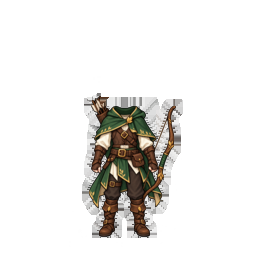
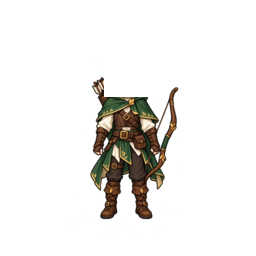
Replace ghosted outfit layers with fixed previews

Changed region(s): [[0.3125, 0.2812, 0.7188, 0.9375]]

diff --git a/student-shop.js b/student-shop.js
@@ -15,7 +15,7 @@
   let busy=false,loadPromise=null,activeSlot='all',lastData=null,transitionTimer=null;
   async function timedFetch(url,options={}){const controller=new AbortController(),timer=setTimeout(()=>controller.abort(),REQUEST_TIMEOUT_MS);try{return await fetch(url,{...options,signal:controller.signal})}finally{clearTimeout(timer)}}
   function scheduleTransition(data){if(transitionTimer){clearTimeout(transitionTimer);transitionTimer=null}if(!data?.enabled)return;const serverNow=Date.parse(data.serverNow);if(!Number.isFinite(serverNow))return;const future=[];for(const item of data.items||[]){if(!item.limited)continue;for(const value of [item.saleStartsAt,item.saleEndsAt]){const time=Date.parse(value);if(Number.isFinite(time)&&time>serverNow)future.push(time)}}if(!future.length)return;const delay=Math.min(2147483000,Math.max(250,Math.min(...future)-serverNow+250));transitionTimer=setTimeout(()=>{transitionTimer=null;load()},delay)}
-  function paintProductPreview(button,item){const renderer=window.StudyVillageAvatar;if(['physical','effect'].includes(item.slot)||!renderer)return;const host=button.querySelector('span');if(!host)return;host.className='shop-wearable-preview';host.replaceChildren();if(item.slot==='character'){const base=document.createElement('i');base.className='shop-preview-base';host.append(base);renderer.paintBase(base,item.id);return}if(!renderer.ASSETS?.[item.id])return;const base=document.createElement('i'),part=document.createElement('i');base.className=item.slot==='outfit'?'shop-preview-base shop-preview-head-only':'shop-preview-base';part.className=`shop-preview-part shop-preview-${item.slot}`;host.append(base);renderer.paintBase(base,'student-boy');host.append(part);renderer.paintItem(part,item.id)}
+  function paintProductPreview(button,item){const renderer=window.StudyVillageAvatar;if(['physical','effect'].includes(item.slot)||!renderer)return;const host=button.querySelector('span');if(!host)return;host.className='shop-wearable-preview';host.replaceChildren();if(item.slot==='character'){const base=document.createElement('i');base.className='shop-preview-base';host.append(base);renderer.paintBase(base,item.id);return}const asset=renderer.ASSETS?.[item.id];if(!asset)return;if(item.slot==='outfit'&&asset.previewSrc){const preview=document.createElement('img');preview.className='shop-preview-composite';preview.src=asset.previewSrc;preview.alt=asset.alt||'';preview.draggable=false;host.append(preview);return}const base=document.createElement('i'),part=document.createElement('i');base.className='shop-preview-base';part.className=`shop-preview-part shop-preview-${item.slot}`;host.append(base);renderer.paintBase(base,'student-boy');host.append(part);renderer.paintItem(part,item.id)}
   function render(data={}){const fresh=data!==lastData;lastData=data;if(fresh)scheduleTransition(data);const owned=new Set(Array.isArray(data.ownedItems)?data.ownedItems:[]);balance.textContent=`${Math.max(0,Number(data.balance)||0)}별`;list.innerHTML='';if(!data.enabled){status.textContent='지금은 선생님이 상점을 닫아 두었어요.';filters.hidden=true;list.hidden=true;return}filters.hidden=false;list.hidden=false;const pending=(data.deliveryRequests||[]).filter(row=>row.status==='pending').length;status.textContent=pending?`별로 원하는 아이템을 살 수 있어요. 선생님 전달을 기다리는 실물 요청이 ${pending}개 있어요.`:'별로 원하는 아이템을 살 수 있어요. 구매 기록은 내 별 장부에 남아요.';const currentBalance=Math.max(0,Number(data.balance)||0),items=(data.items||[]).filter(item=>activeSlot==='all'||item.slot===activeSlot);for(const item of items){const physical=item.fulfillment==='teacher-delivery',bought=!physical&&owned.has(item.id),available=item.available!==false,salePending=item.salePending===true,saleEnded=item.saleEnded===true,price=Math.max(0,Number(item.price)||0),affordable=currentBalance>=price,missingStars=Math.max(0,price-currentBalance),requiredLevel=Math.max(1,Number(item.requiredLevel)||1),levelOk=(Number(data.currentLevel)||1)>=requiredLevel,startLabel=item.saleStartsAt?new Date(item.saleStartsAt).toLocaleString('ko-KR',{month:'numeric',day:'numeric',hour:'2-digit',minute:'2-digit'}):'',endLabel=item.saleEndsAt?new Date(item.saleEndsAt).toLocaleString('ko-KR',{month:'numeric',day:'numeric',hour:'2-digit',minute:'2-digit'}):'',b=document.createElement('button');b.type='button';b.className=`inventory-item ${bought?'selected':''}`;b.disabled=bought||!available||salePending||saleEnded||!levelOk||!affordable||busy;b.innerHTML=`<span>${icons[item.id]||'🎁'}</span><strong>${esc(item.name)}${item.limited?`<em title="${esc(endLabel?`${endLabel} 종료`:'한정 판매')}">한정</em>`:''}</strong><small>${bought?'구매 완료':!available?'판매 중지':salePending?`판매 예정 · ${esc(startLabel)}`:saleEnded?'판매 종료':!levelOk?`Lv.${requiredLevel}부터 구매`:!affordable?`${price}별 · ${missingStars}별 더 필요`:physical?`${price}별 · 선생님께 전달 요청`:`${price}별 · 구매${item.limited&&endLabel?` · ${esc(endLabel)}까지`:''}`}</small>`;if(!bought&&available&&!salePending&&!saleEnded&&levelOk&&affordable)b.onclick=()=>purchase(item);paintProductPreview(b,item);list.appendChild(b)}if(!items.length)list.innerHTML='<p class="student-shop-empty">이 종류의 아이템은 아직 없어요.</p>'}
   async function load(){if(loadPromise)return loadPromise;loadPromise=(async()=>{try{const r=await timedFetch('/api/shop',{headers:headers(),cache:'no-store'}),d=await r.json();if(!r.ok||!d.ok)throw new Error();render(d);return d}catch(err){status.textContent=err?.name==='AbortError'?'상점 정보를 불러오는 시간이 초과됐어요.':'상점 정보를 불러오지 못했어요.';return null}})();try{return await loadPromise}finally{loadPromise=null}}
   async function purchase(item){if(busy)return;const physical=item.fulfillment==='teacher-delivery',question=physical?`${item.name}을(를) ${item.price}별에 신청할까요?\n별은 지금 바로 차감되고 선생님께 전달 요청이 남습니다.`:`${item.name}을(를) ${item.price}별에 살까요?\n구매한 별 사용 기록은 내 별 장부에 남습니다.`;if(!confirm(question))return;busy=true;status.textContent=physical?'전달 요청 중…':'구매 중…';let refreshed=false;try{const r=await timedFetch('/api/shop/purchase',{method:'POST',headers:{'Content-Type':'application/json',...headers()},body:JSON.stringify({itemId:item.id})}),d=await r.json();if(!r.ok||!d.ok){if(d.code==='insufficient-stars')status.textContent=`별이 부족해요. 현재 ${d.balance||0}별이 있어요.`;else if(d.code==='shop-disabled')status.textContent='상점이 방금 닫혔어요.';else if(d.code==='item-unavailable')status.textContent='이 아이템은 방금 판매가 중지됐어요.';else if(d.code==='sale-pending')status.textContent='아직 판매 시작 전인 한정 아이템이에요.';else if(d.code==='sale-ended')status.textContent='이 한정 아이템의 판매 시간이 끝났어요.';else if(d.code==='level-required')status.textContent='이 아이템은 Lv.'+d.requiredLevel+'부터 살 수 있어요. 현재 Lv.'+d.currentLevel+'이에요.';else if(d.code==='already-owned')status.textContent='이미 가지고 있는 아이템이에요.';else status.textContent='구매하지 못했어요.';return}status.textContent=d.fulfillment==='teacher-delivery'?`📦 ${d.itemName} 전달 요청 완료! ${d.balance}별이 남았어요. 선생님이 물건을 전달하면 완료 처리합니다.`:`🎁 ${d.itemName} 구매 완료! ${d.balance}별이 남았어요.`;window.dispatchEvent(new CustomEvent('studyvillage:shop-purchase',{detail:d}));window.dispatchEvent(new Event('studyvillage:activity-record-refresh'));busy=false;const state=await load();refreshed=!!state;if(d.fulfillment==='teacher-delivery')return;const found=(state?.items||[]).find(x=>x.id===d.itemId);if(found?.slot==='effect'){status.textContent='🌈 '+d.itemName+' 구매 완료! 성장 효과가 자동으로 켜졌어요.';window.dispatchEvent(new Event('studyvillage:shop-refresh'))}else if(confirm(`${d.itemName} 구매 완료! 🎁\n지금 바로 장착할까요?`)){if(found)window.dispatchEvent(new CustomEvent('studyvillage:equip-purchased-item',{detail:{itemId:d.itemId,itemName:found.name}}))}}catch(err){status.textContent=err?.name==='AbortError'?'구매 요청 시간이 초과됐어요. 잠시 후 별 장부를 확인해 주세요.':'구매 중 연결 문제가 생겼어요.'}finally{busy=false;if(!refreshed)await load()}}

diff --git a/index.html b/index.html
@@ -5,7 +5,7 @@
     <meta name="viewport" content="width=device-width,initial-scale=1" />
     <title>우리 학습마을</title>
     <link rel="stylesheet" href="style.css?v=20260827r11" />
-    <link rel="stylesheet" href="avatar-assets.css?v=20260831r4" />
+    <link rel="stylesheet" href="avatar-assets.css?v=20260831r5" />
     <link rel="stylesheet" href="building-interiors.css?v=20260823a" />
     <link rel="stylesheet" href="library-game.css?v=20260828v4" />
     <link rel="stylesheet" href="activity-records.css" />
@@ -28,6 +28,6 @@
         <footer class="mobile-controls"><button id="talk-button" class="talk-button">✨ 상호작용</button></footer>
       </section>
     </main>
-    <script src="auth.js?v=20260831r1"></script><script src="error-reporter.js"></script><script src="student-single-session.js"></script><script src="presence.js"></script><script src="live-events.js"></script><script src="data-service.js?v=20260823a"></script><script src="activity-checkpoint.js"></script><script src="activity-gate.js?v=20260828b"></script><script src="sound-effects.js?v=20260827v2"></script><script src="game.js?v=20260828v3"></script><script src="student-session.js?v=20260830r2"></script><script src="avatar-renderer.js?v=20260830rpg12"></script><script src="assets/avatar-base-variants-v1.js?v=20260830b"></script><script src="assets/avatar-special-outfit-overhaul-v2.js?v=20260830a"></script><script src="assets/avatar-visual-overhaul-v1.js?v=20260830a"></script><script src="assets/avatar-simple-sets-v1.js?v=20260830a"></script><script src="avatar-motion.js"></script><script src="avatar-growth-effects.js?v=20260822c"></script><script src="world-camera.js"></script><script src="village-layout.js?v=20260823a"></script><script src="random-npcs.js"></script><script src="random-exploration-events.js"></script><script src="building-interiors.js?v=20260830a"></script><script src="math-practice.js?v=20260830r4"></script><script src="question-data.js?v=20260825r9"></script><script src="curriculum-question-bank.js?v=20260827v1"></script><script src="assets/curriculum-content-expansion.js?v=20260828v1"></script><script src="question-response.js"></script><script src="assets/student-question-overrides.js?v=20260827v2"></script><script src="library-game.js?v=20260830save1"></script><script src="activity-taxonomy.js"></script><script src="daily-missions.js"></script><script src="exploration-collection.js"></script><script src="activity-records.js"></script><script src="student-result-profile-sync.js"></script><script src="customize.js?v=20260830r4"></script><script src="assets/avatar-fullbody-fix.js?v=20260826rpg3"></script><script src="assets/avatar-basic-pack-v3.js?v=20260826v3"></script><script src="assets/avatar-secondary-sync-v2.js?v=20260827v4"></script><script src="assets/student-shop-ownership-compat.js?v=20260823a"></script><script src="student-shop.js?v=20260830r4"></script><script src="onboarding.js?v=20260820c"></script><script src="connection-status.js"></script><script src="session-restore.js"></script><script src="assets/expedition-entry-guard.js?v=20260823a"></script><script src="assets/student-exploration-subject-pools.js?v=20260829v7"></script><script src="assets/student-exploration-v2.js?v=20260830r4"></script><script src="assets/student-overlay-manager.js?v=20260828c"></script><script src="assets/student-stability-fixes.js?v=20260830r5"></script><script src="assets/ui-feedback-polish.js?v=20260829c"></script>
+    <script src="auth.js?v=20260831r1"></script><script src="error-reporter.js"></script><script src="student-single-session.js"></script><script src="presence.js"></script><script src="live-events.js"></script><script src="data-service.js?v=20260823a"></script><script src="activity-checkpoint.js"></script><script src="activity-gate.js?v=20260828b"></script><script src="sound-effects.js?v=20260827v2"></script><script src="game.js?v=20260828v3"></script><script src="student-session.js?v=20260830r2"></script><script src="avatar-renderer.js?v=20260831rpg13"></script><script src="assets/avatar-base-variants-v1.js?v=20260830b"></script><script src="assets/avatar-special-outfit-overhaul-v2.js?v=20260830a"></script><script src="assets/avatar-visual-overhaul-v1.js?v=20260830a"></script><script src="assets/avatar-simple-sets-v1.js?v=20260830a"></script><script src="avatar-motion.js"></script><script src="avatar-growth-effects.js?v=20260822c"></script><script src="world-camera.js"></script><script src="village-layout.js?v=20260823a"></script><script src="random-npcs.js"></script><script src="random-exploration-events.js"></script><script src="building-interiors.js?v=20260830a"></script><script src="math-practice.js?v=20260830r4"></script><script src="question-data.js?v=20260825r9"></script><script src="curriculum-question-bank.js?v=20260827v1"></script><script src="assets/curriculum-content-expansion.js?v=20260828v1"></script><script src="question-response.js"></script><script src="assets/student-question-overrides.js?v=20260827v2"></script><script src="library-game.js?v=20260830save1"></script><script src="activity-taxonomy.js"></script><script src="daily-missions.js"></script><script src="exploration-collection.js"></script><script src="activity-records.js"></script><script src="student-result-profile-sync.js"></script><script src="customize.js?v=20260830r4"></script><script src="assets/avatar-fullbody-fix.js?v=20260826rpg3"></script><script src="assets/avatar-basic-pack-v3.js?v=20260826v3"></script><script src="assets/avatar-secondary-sync-v2.js?v=20260827v4"></script><script src="assets/student-shop-ownership-compat.js?v=20260823a"></script><script src="student-shop.js?v=20260831r5"></script><script src="onboarding.js?v=20260820c"></script><script src="connection-status.js"></script><script src="session-restore.js"></script><script src="assets/expedition-entry-guard.js?v=20260823a"></script><script src="assets/student-exploration-subject-pools.js?v=20260829v7"></script><script src="assets/student-exploration-v2.js?v=20260830r4"></script><script src="assets/student-overlay-manager.js?v=20260828c"></script><script src="assets/student-stability-fixes.js?v=20260830r5"></script><script src="assets/ui-feedback-polish.js?v=20260829c"></script>
   </body>
 </html>

diff --git a/avatar-renderer.js b/avatar-renderer.js
@@ -53,7 +53,7 @@ window.StudyVillageAvatar=(()=>{
     'backpack':{svg:bag('backpack','#875432')},'field-satchel':{svg:bag('satchel','#745033')},'book-pack':{svg:bag('books','#315f91')},'bag-art':{svg:bag('art','#c9604d')},'bag-rocket':{src:`${RPG}bag-star-rocket-rpg-v7.png`,alt:'별 탐험가 로켓 가방'},
     'hand-sword':{src:`${RPG}hand-star-sword-rpg-v7.png`,alt:'별보석 모험가 검'},'hand-wand':{src:`${RPG}hand-starlight-wand-rpg-v8.png`,alt:'별빛 수정 지팡이'},'hand-book':{svg:hand('book','#315f91')},'hand-magnifier':{svg:hand('magnifier','#294f79')},
     'pet-chick':{svg:pet('chick','#f4d544')},'pet-cat':{svg:pet('cat','#e59a43')},'pet-owl':{svg:pet('owl','#9a6d45')},'pet-fox':{svg:pet('fox','#e47739')},'pet-dog':{svg:pet('dog','#b87946')},'pet-rabbit':{svg:pet('rabbit','#eee5df')},'pet-dragon':{src:`${RPG}pet-star-dragon-rpg-v8.png`,alt:'별무늬 꼬마 용 친구'},'pet-slime':{svg:pet('slime','#63c67a')},
-    'outfit-silver-knight':{src:`${RPG}production/outfits/silver-knight.png`,alt:'은빛 수호 기사 한벌 의상'},'outfit-star-mage-production':{src:`${RPG}production/outfits/star-mage.png`,alt:'별자리 마법사 한벌 의상'},'outfit-school-scientist':{src:`${RPG}production/outfits/school-scientist.png`,alt:'푸른빛 과학자 한벌 의상'},'outfit-forest-archer-production':{src:`${RPG}production/outfits/forest-archer.png`,alt:'초록 숲 궁수 한벌 의상'},'outfit-pirate-captain-production':{src:`${RPG}production/outfits/pirate-captain.png`,alt:'붉은 해적 선장 한벌 의상'},'outfit-moon-priest-production':{src:`${RPG}production/outfits/moon-priest.png`,alt:'달빛 사제 한벌 의상'},
+    'outfit-silver-knight':{src:`${RPG}production/outfits/silver-knight.png`,previewSrc:`${RPG}production/shop-previews/silver-knight.png`,alt:'은빛 수호 기사 한벌 의상'},'outfit-star-mage-production':{src:`${RPG}production/outfits/star-mage.png`,previewSrc:`${RPG}production/shop-previews/star-mage.png`,alt:'별자리 마법사 한벌 의상'},'outfit-school-scientist':{src:`${RPG}production/outfits/school-scientist.png`,previewSrc:`${RPG}production/shop-previews/school-scientist.png`,alt:'푸른빛 과학자 한벌 의상'},'outfit-forest-archer-production':{src:`${RPG}production/outfits/forest-archer.png`,previewSrc:`${RPG}production/shop-previews/forest-archer.png`,alt:'초록 숲 궁수 한벌 의상'},'outfit-pirate-captain-production':{src:`${RPG}production/outfits/pirate-captain.png`,previewSrc:`${RPG}production/shop-previews/pirate-captain.png`,alt:'붉은 해적 선장 한벌 의상'},'outfit-moon-priest-production':{src:`${RPG}production/outfits/moon-priest.png`,previewSrc:`${RPG}production/shop-previews/moon-priest.png`,alt:'달빛 사제 한벌 의상'},
     'pet-maltese-production':{src:`${RPG}production/pets/maltese.png`,alt:'하얀 말티즈'},'pet-toy-poodle-production':{src:`${RPG}production/pets/toy-poodle.png`,alt:'살구 토이푸들'},'pet-corgi-production':{src:`${RPG}production/pets/corgi.png`,alt:'통통 웰시코기'},'pet-cheese-cat-production':{src:`${RPG}production/pets/cheese-cat.png`,alt:'치즈 줄무늬 고양이'},'pet-lop-rabbit-production':{src:`${RPG}production/pets/lop-rabbit.png`,alt:'크림 롭이어 토끼'},'pet-baby-dragon-production':{src:`${RPG}production/pets/baby-dragon.png`,alt:'사파이어 꼬마 용'}
   };
   function paint(element,spec){if(!element)return;element.replaceChildren();element.classList.toggle('image-asset',!!spec?.src);element.classList.toggle('svg-asset',!!spec?.svg);if(spec?.svg)element.innerHTML=spec.svg;else if(spec?.src){const img=document.createElement('img');img.src=spec.src;img.alt=spec.alt||'';img.draggable=false;element.appendChild(img)}else element.textContent=spec?.emoji||''}

diff --git a/avatar-basic-pack-contract-selftest.js b/avatar-basic-pack-contract-selftest.js
@@ -25,7 +25,7 @@ for(const id of ['character-boy-02','character-boy-03','character-boy-04','chara
 }
 for(const retiredHair of ['hair-short','hair-bob','hair-ponytail','hair-blue'])assert.ok(!catalog.includes(`'${retiredHair}'`),`standalone hair product must be retired: ${retiredHair}`);
 assert.ok(whole.includes("id:'student-boy'")&&whole.includes("id:'student-girl'"),'the two free basic bodies must remain');
-assert.ok(index.includes('avatar-renderer.js?v=20260830rpg12'),'avatar renderer cache version must be refreshed');
+assert.ok(index.includes('avatar-renderer.js?v=20260831rpg13'),'avatar renderer cache version must be refreshed');
 assert.ok(index.includes('avatar-base-variants-v1.js')&&index.includes('avatar-production-contract-v2.css'),'base production gate and production contract assets must load');
 assert.ok(!index.includes('avatar-auto-normalize-v1.js'),'runtime pixel scanning normalizer must stay disabled for classroom performance');
 assert.ok(contract.includes('transform:none!important'),'production contract must remove manual wearable transform corrections');
@@ -37,6 +37,12 @@ const expected=[
   'production/pets/cheese-cat.png','production/pets/lop-rabbit.png','production/pets/baby-dragon.png'
 ];
 for(const rel of expected){const full=path.join(root,'assets/avatar-runtime',rel);assert.ok(fs.existsSync(full),`missing production raster: ${rel}`);assert.ok(fs.statSync(full).size>3000,`production raster is unexpectedly small: ${rel}`);assert.ok(renderer.includes(rel),`renderer missing production raster: ${rel}`)}
+for(const name of ['silver-knight.png','star-mage.png','school-scientist.png','forest-archer.png','pirate-captain.png','moon-priest.png']){
+  const rel=`production/shop-previews/${name}`,full=path.join(root,'assets/avatar-runtime',rel);
+  assert.ok(fs.existsSync(full)&&fs.statSync(full).size>3000,`missing baked one-layer shop preview: ${rel}`);
+  assert.ok(renderer.includes(rel),`renderer missing baked one-layer shop preview: ${rel}`);
+}
+assert.ok(studentShop.includes("item.slot==='outfit'&&asset.previewSrc"),'production outfits must use one-layer shop previews');
 assert.ok(!fs.existsSync(path.join(root,'server/avatar-shop-pack-v5.js')),'temporary v5 catalog must be removed');
 assert.ok(!catalog.includes('avatarShopPackV4')&&!catalog.includes('avatarShopPackV5'),'production catalog must not merge temporary packs');
 assert.ok(studentShop.includes("item.slot==='character'"),'student shop must retain future base-character product support');

diff --git a/avatar-assets.css b/avatar-assets.css
@@ -16,3 +16,4 @@
    before compositing, so it cannot leak behind transparent garment edges as a ghost. */
 .shop-preview-head-only{clip-path:inset(0 0 62.1% 0)!important;-webkit-clip-path:inset(0 0 62.1% 0)!important;overflow:hidden!important;transform:none!important}
 .shop-wearable-preview .shop-preview-outfit{transform:none!important}
+.shop-preview-composite{display:block!important;width:100%!important;height:100%!important;object-fit:contain!important;transform:none!important}

diff --git a/scripts/bake-avatar-outfit-v2.py b/scripts/bake-avatar-outfit-v2.py
@@ -1,5 +1,4 @@
 from pathlib import Path
-from statistics import median
 from PIL import Image
 
 ROOT = Path(__file__).resolve().parents[1]
@@ -16,10 +15,8 @@ FILES = [
 ]
 
 MASTER = 256
-BODY_SCAN_Y0 = 108
-BODY_SCAN_Y1 = 242
-BODY_HALF_SCAN = 76
-ALPHA_MIN = 16
+TARGET_BODY_X = 128
+TARGET_FOOT_Y = 237
 # Production outfits own the body; the approved base owns the face/head opening.
 FACE_KEEP_OUT = (104, 48, 153, 96)
 
@@ -34,38 +31,11 @@ def to_master(img: Image.Image) -> Image.Image:
     return img.convert("RGBA").resize((MASTER, MASTER), Image.Resampling.NEAREST)
 
 
-def dense_body_center(img: Image.Image) -> int:
-    a = alpha(img)
-    px = a.load()
-    weights = []
-    for x in range(MASTER):
-        c = 0
-        for y in range(BODY_SCAN_Y0, BODY_SCAN_Y1 + 1):
-            if px[x, y] > ALPHA_MIN:
-                c += 1
-        weights.append(c * c)
-    total = sum(weights)
-    if total <= 0:
-        return MASTER // 2
-    acc = 0
-    half = total / 2
-    for x, w in enumerate(weights):
-        acc += w
-        if acc >= half:
-            return x
-    return MASTER // 2
-
-
-def body_foot_y(img: Image.Image, body_x: int) -> int:
-    a = alpha(img)
-    px = a.load()
-    x0 = max(0, body_x - BODY_HALF_SCAN)
-    x1 = min(MASTER - 1, body_x + BODY_HALF_SCAN)
-    for y in range(MASTER - 1, 70, -1):
-        hits = sum(1 for x in range(x0, x1 + 1) if px[x, y] > ALPHA_MIN)
-        if hits >= 3:
-            return y
-    raise RuntimeError("could not locate dense foot row")
+def visible_foot_y(img: Image.Image) -> int:
+    bbox = alpha(img).getbbox()
+    if not bbox:
+        raise RuntimeError("could not locate visible outfit pixels")
+    return bbox[3] - 1
 
 
 def approved_bases():
@@ -74,19 +44,15 @@ def approved_bases():
         if not path.exists():
             raise RuntimeError(f"missing approved base: {path}")
         base = to_master(Image.open(path))
-        body_x = dense_body_center(base)
-        foot_y = body_foot_y(base, body_x)
-        rows.append((path.name, body_x, foot_y))
-    xs = [row[1] for row in rows]
-    feet = [row[2] for row in rows]
-    if max(xs) - min(xs) > 4:
-        raise RuntimeError(f"approved bases disagree on body center: {rows}")
+        foot_y = visible_foot_y(base)
+        rows.append((path.name, foot_y))
+    feet = [row[1] for row in rows]
     if max(feet) - min(feet) > 4:
         raise RuntimeError(f"approved bases disagree on foot line: {rows}")
-    target_x = round(median(xs))
-    target_foot_y = round(median(feet))
-    print(f"approved base anchor: rows={rows}, targetX={target_x}, targetFootY={target_foot_y}")
-    return target_x, target_foot_y
+    if any(abs(foot - TARGET_FOOT_Y) > 1 for foot in feet):
+        raise RuntimeError(f"approved bases disagree with foot anchor {TARGET_FOOT_Y}: {rows}")
+    print(f"approved base anchor: rows={rows}, targetX={TARGET_BODY_X}, targetFootY={TARGET_FOOT_Y}")
+    return TARGET_FOOT_Y
 
 
 def translate(img: Image.Image, dx: int, dy: int) -> Image.Image:
@@ -105,7 +71,7 @@ def protect_face(img: Image.Image) -> Image.Image:
     return out
 
 
-def bake(path: Path, target_body_x: int, target_foot_y: int):
+def bake(path: Path, target_foot_y: int):
     """Anchor authored artwork only; never synthesize garment pixels.
 
     The previous migration pass copied nearest outfit colours into transparent
@@ -118,22 +84,24 @@ def bake(path: Path, target_body_x: int, target_foot_y: int):
     img = Image.open(path).convert("RGBA")
     if img.size != (MASTER, MASTER):
         raise RuntimeError(f"{path.name}: expected 256x256, got {img.size}")
-    body_x = dense_body_center(img)
-    foot_y = body_foot_y(img, body_x)
-    dx = target_body_x - body_x
+    foot_y = visible_foot_y(img)
+    # The approved source art is already authored around body X=128.  Swords,
+    # staffs, bows and capes are deliberately asymmetric, so alpha-derived X
+    # centering would move the body differently for every outfit.
+    dx = 0
     dy = target_foot_y - foot_y
     if abs(dx) > 36 or abs(dy) > 48:
         raise RuntimeError(f"{path.name}: source outside migration tolerance dx={dx}, dy={dy}")
     baked = translate(img, dx, dy)
     baked = protect_face(baked)
     baked.save(path, "PNG", optimize=True)
-    print(f"{path.name}: bodyX {body_x}->{target_body_x}, footY {foot_y}->{target_foot_y}, dx={dx}, dy={dy}")
+    print(f"{path.name}: bodyX 128->128, footY {foot_y}->{target_foot_y}, dx={dx}, dy={dy}")
 
 
 def main():
-    target_body_x, target_foot_y = approved_bases()
+    target_foot_y = approved_bases()
     for name in FILES:
-        bake(OUTFIT_DIR / name, target_body_x, target_foot_y)
+        bake(OUTFIT_DIR / name, target_foot_y)
 
 
 if __name__ == "__main__":

diff --git a/scripts/build-avatar-shop-previews.py b/scripts/build-avatar-shop-previews.py
@@ -1,0 +1,37 @@
+from pathlib import Path
+
+from PIL import Image
+
+
+ROOT = Path(__file__).resolve().parents[1]
+RUNTIME = ROOT / "assets" / "avatar-runtime"
+OUTFIT_DIR = RUNTIME / "production" / "outfits"
+PREVIEW_DIR = RUNTIME / "production" / "shop-previews"
+FILES = [
+    "forest-archer.png",
+    "moon-priest.png",
+    "pirate-captain.png",
+    "school-scientist.png",
+    "silver-knight.png",
+    "star-mage.png",
+]
+HEAD_BOTTOM = 97
+
+
+def main() -> None:
+    base = Image.open(RUNTIME / "base-boy-v2.png").convert("RGBA")
+    head = base.copy()
+    alpha = head.getchannel("A")
+    alpha.paste(0, (0, HEAD_BOTTOM, 256, 256))
+    head.putalpha(alpha)
+    PREVIEW_DIR.mkdir(parents=True, exist_ok=True)
+
+    for name in FILES:
+        outfit = Image.open(OUTFIT_DIR / name).convert("RGBA")
+        preview = Image.alpha_composite(head, outfit)
+        preview.save(PREVIEW_DIR / name, "PNG", optimize=True)
+        print(PREVIEW_DIR / name)
+
+
+if __name__ == "__main__":
+    main()
